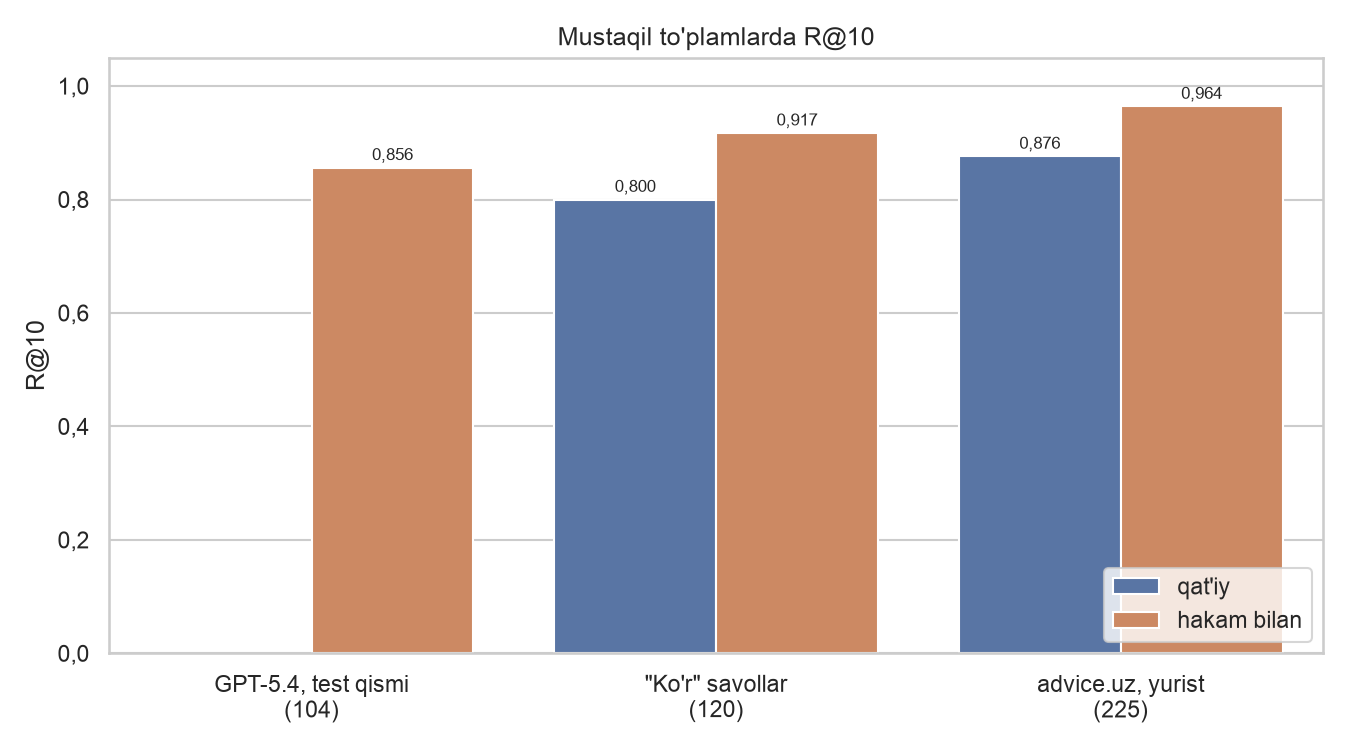
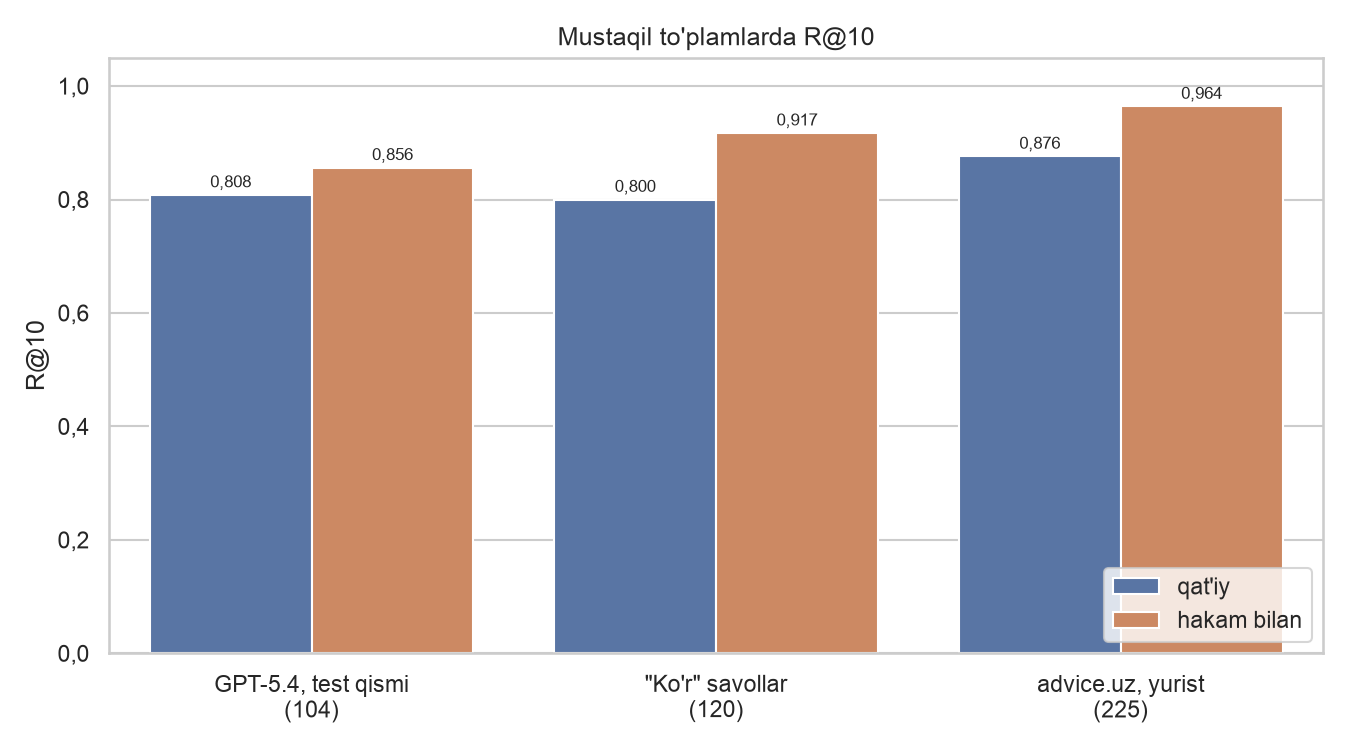
Docs: strict R@10 for the test half, explain the judge, move lex.uz out of the methods chart
The held-out GPT-5.4 test half now has a strict number (0.808, source article
only) next to the judged one (0.856). Charts and README say which numbers are
judged and explain what the judge is, with a real example. The lex.uz text
filter is not a question search, so it gets its own short section instead of
bars next to Nizom.

Changed region(s): [[0.0933, 0.2147, 0.2489, 0.8893]]

diff --git a/scripts/plot_benchmarks.py b/scripts/plot_benchmarks.py
@@ -46,36 +46,27 @@ SETS = {
     "uz": ["GPT-5.4, test qismi\n(104)", '"Ko\'r" savollar\n(120)', "advice.uz, yurist\n(225)"],
     "en": ["GPT-5.4, test half\n(104)", '"Blind" questions\n(120)', "advice.uz, lawyers\n(225)"],
 }
-SET_STRICT = [None, 0.800, 0.876]
+SET_STRICT = [0.808, 0.800, 0.876]
 SET_JUDGE = [0.856, 0.917, 0.964]
 
-# lex.uz search (6m, eval/results/2026-11-24-lexuz-search.jsonl).
-LEXUZ_QUESTION = 0.000
-LEXUZ_KW3 = 0.159
-
 # Search modes on the same 208 questions, full corpus, R@10: eval/results/2026-11-12-*-q1.json
-# (stock model) and 2026-11-19-*-rr1-top30.json (production), lex.uz above.
-# lex.uz search returns acts, not articles: its value is "the right act in the top 10".
+# (stock model) and 2026-11-19-*-rr1-top30.json (production).
 MODES = {
     "uz": [
-        "lex.uz filtri: savolning o'zi",
-        "lex.uz filtri: 3 ta kalit so'z",
         "Faqat vektor, asl e5-small",
         "Faqat FTS (kalit so'zlar)",
         "Faqat vektor, fine-tune qilingan e5-small",
         "Nizom: gibrid + reranker",
     ],
     "en": [
-        "lex.uz text filter: the question as is",
-        "lex.uz text filter: 3 keywords",
         "Vector only, stock e5-small",
         "FTS only (keywords)",
         "Vector only, fine-tuned e5-small",
         "Nizom: hybrid + reranker",
     ],
 }
-MODE_VALUES = [LEXUZ_QUESTION, LEXUZ_KW3, 0.370, 0.630, 0.707, 0.875]
-MODE_COLORS = ["#8c8c8c", "#8c8c8c", "#4c72b0", "#4c72b0", "#4c72b0", "#55a868"]
+MODE_VALUES = [0.370, 0.630, 0.707, 0.875]
+MODE_COLORS = ["#4c72b0", "#4c72b0", "#4c72b0", "#55a868"]
 
 # Embedding fine-tune on the 72k-chunk candidate pool, hybrid R@10 without a reranker (6h).
 PAIRS = [(0, 0.688), (753, 0.774), (1506, 0.779), (1849, 0.793)]
@@ -92,30 +83,28 @@ EPOCHS = [
 
 TEXT = {
     "uz": {
-        "t1": "Fine-tune'dan oldin va keyin (208 ta aniq savol, butun korpus)",
+        "t1": "Fine-tune'dan oldin va keyin (208 ta aniq savol, butun korpus, hakam bilan)",
         "t2": "Mustaqil to'plamlarda R@10",
         "strict": "qat'iy",
         "judge": "hakam bilan",
-        "t3": "Qidiruv usullari: R@10 (208 ta aniq savol, butun korpus)",
-        "note": "lex.uz uchun: to'g'ri hujjat top-10 da; boshqalar uchun: to'g'ri modda top-10 da",
+        "t3": "Qidiruv usullari: R@10 (208 ta aniq savol, butun korpus, hakam bilan)",
         "t4a": "Juftliklar soni (2 epoch)",
         "t4b": "Epoch soni (1 849 juftlik, har nuqta bitta seed)",
         "pairs": "o'qitish juftliklari",
         "epochs": "epoch",
-        "pool": "R@10, nomzodlar pool'ida, reranker'siz",
+        "pool": "R@10, nomzodlar pool'ida, reranker'siz\nhakam bilan",
     },
     "en": {
-        "t1": "Before and after fine-tuning (208 unambiguous questions, full corpus)",
+        "t1": "Before and after fine-tuning (208 unambiguous questions, full corpus, with judge)",
         "t2": "R@10 on independent sets",
         "strict": "strict",
         "judge": "with judge",
-        "t3": "Search methods: R@10 (208 unambiguous questions, full corpus)",
-        "note": "lex.uz: right act in the top 10; others: right article in the top 10",
+        "t3": "Search methods: R@10 (208 unambiguous questions, full corpus, with judge)",
         "t4a": "Number of pairs (2 epochs)",
         "t4b": "Number of epochs (1,849 pairs, one point per seed)",
         "pairs": "training pairs",
         "epochs": "epochs",
-        "pool": "R@10 on the candidate pool, no reranker",
+        "pool": "R@10 on the candidate pool, no reranker\nwith judge",
     },
 }
 
@@ -181,14 +170,13 @@ def chart_independent(lang: str) -> None:
 
 
 def chart_modes(lang: str) -> None:
-    fig, ax = plt.subplots(figsize=(9, 4.5))
+    fig, ax = plt.subplots(figsize=(9, 3.6))
     bars = ax.barh(MODES[lang], MODE_VALUES, color=MODE_COLORS)
     ax.bar_label(bars, labels=[fmt(v, lang) for v in MODE_VALUES], fontsize=9, padding=3)
     ax.invert_yaxis()
     ax.set_xlim(0, 1)
     ax.set_title(TEXT[lang]["t3"])
     comma_ticks(ax.xaxis, lang)
-    ax.set_xlabel(TEXT[lang]["note"], fontsize=9, color="#555555")
     save(fig, f"methods-{lang}.png")
 
 

diff --git a/README.md b/README.md
@@ -52,6 +52,24 @@ Metrika: **Recall@10**, ya'ni to'g'ri modda birinchi 10 ta natija ichida bo'lgan
 R@1 — to'g'ri modda birinchi o'rinda. O'lchovlar butun korpusda, xizmatdagi kod bilan, AI qayta
 yozgan savollar (`alt_queries`) bilan o'tkazildi. Batafsil: [docs/stage2-experiments.md](docs/stage2-experiments.md).
 
+**Qat'iy va hakam bilan.** Har bir savol bitta moddadan yozilgan va o'sha modda to'g'ri javob
+deb belgilangan. Lekin ko'p savolga boshqa qonundagi modda ham javob beradi. Masalan, "Yaqinim
+qamoqda bo'lsa, u bilan necha marta va qancha vaqtga ko'risha olaman?" savoli Ma'muriy qamoqni
+o'tash tartibi to'g'risidagi Qonunning 16-moddasidan yozilgan, lekin Jinoyat-ijroiya kodeksining
+76-moddasi ("Mahkumlarning uchrashuvlari") ham bunga javob beradi. Qidiruv shu moddani topsa,
+faqat oldindan belgilangan modda hisoblanadigan **qat'iy** hisobda bu xato sanaladi.
+
+**Hakam** — qidiruv topgan, lekin belgilanmagan moddalarni o'qib, "bu modda savolga javob
+beradimi?" deb tekshiradigan LLM. U "ha" desa, moddadan javob beradigan jumlani so'zma-so'z
+ko'chirib ko'rsatishi shart, iqtibos skript bilan matndan qidiriladi, topilmasa javob o'chiriladi.
+Bu qoida kerak bo'ldi: iqtibossiz LLM hakam qabul qilgan javoblarning faqat 30 %i haqiqiy edi.
+Hakam tasdiqlagan moddalar ham to'g'ri deb sanalsa, bu **hakam bilan** hisob.
+
+Qat'iy raqam pastki chegara (to'g'ri topilgan moddalar ham xato sanaladi), hakam bilan raqam
+yuqori chegara (hakam faqat bizning qidiruv topganini ko'rgan). Bu bo'limdagi grafik va
+jadvallar (mustaqil tekshiruvdan tashqari) hakam bilan hisoblangan, ular bir-biri bilan to'g'ri
+solishtiriladi. Qat'iy hisobda asosiy natija R@10 0,875 emas, **0,822**.
+
 ### Fine-tune'dan oldin va keyin
 
 To'plam: GPT-5.4 butun korpusdan yozgan 208 ta aniq savol (`eval/questions_llm_full.yaml`).
@@ -88,7 +106,7 @@ Kuzatuvlar:
 - Seed shovqini katta: bir xil sozlamada R@10 0,808–0,841. Har bir qaror bir nechta run bilan tekshirildi.
 - int8 kvantlash sifatni pasaytirmadi (pool'da 0,837 va 0,837), shuning uchun serverga int8 qo'yildi.
 
-### Boshqa qidiruv usullari bilan solishtirish
+### Qidiruv usullari
 
 Bir xil 208 savol, butun korpus:
 
@@ -96,34 +114,29 @@ Bir xil 208 savol, butun korpus:
 
 | Usul | R@1 | R@10 |
 |---|---:|---:|
-| lex.uz filtri: savolning o'zi | 0,000 | 0,000 |
-| lex.uz filtri: AI yozgan rasmiy ibora | 0,005 | 0,019 |
-| lex.uz filtri: iboraning birinchi 2 so'zi | 0,034 | 0,120 |
-| lex.uz filtri: iboraning birinchi 3 so'zi | 0,038 | 0,159 |
 | Faqat vektor, asl e5-small | 0,101 | 0,370 |
 | Faqat FTS (kalit so'zlar, o'zbekcha stemming va lemma bilan) | 0,264 | 0,630 |
 | Faqat vektor, fine-tune qilingan e5-small | 0,274 | 0,707 |
 | **Nizom: gibrid + reranker** | **0,538** | **0,875** |
 
-- "lex.uz filtri" — lex.uz'dagi hujjatlar ro'yxatining
-  ["Milliy qonunchilik" sahifasidagi](https://lex.uz/uz/search/nat?lang=4) "Matndagi so'z yoki
-  jumla" maydoni ("Aniq mos kelishi" belgilanmagan, faqat amaldagi hujjatlar). Saytda alohida
-  umumiy qidiruv oynasi yo'q, matn bo'yicha qidirish shu filtr orqali.
-- Bu filtr so'rovdagi hamma so'z bor hujjatlarni topadi va ularni moslik bo'yicha emas,
-  sana bo'yicha (eng yangisi birinchi) tartiblaydi. U modda emas, hujjat qaytaradi, shuning uchun
-  uning uchun yengilroq mezon olindi: to'g'ri hujjat birinchi 10 natija ichida bo'lsa yetarli.
-  Nizom uchun esa to'g'ri modda top-10 da bo'lishi kerak. So'rovlar 100 belgigacha qisqartirildi
-  (lex.uz cheklovi), apostroflar lex.uz yozuviga (oʻ, gʻ, ʼ) keltirildi.
-- Savol matni bilan lex.uz 208 savolning birortasida ham natija qaytarmadi ("hujjat topilmadi"),
-  rasmiy ibora bilan 96 % hollarda shunday. 2–3 ta kalit so'z bilan natija deyarli doim bor, lekin
-  moslik bo'yicha saralanmagani uchun kerakli hujjat birinchi 10 tasiga kamdan-kam tushadi. Bu
-  so'zlar bo'yicha filtr: hujjat nomi yoki raqami ma'lum bo'lganda qulay, lekin oddiy
-  savolni tushunib, javobni topib berish uchun mo'ljallanmagan. Kalit so'zlar oddiy qoida bilan
-  olindi: ularni qo'lda yaxshiroq tanlagan odam yuqoriroq natija olishi mumkin.
-- Skript: [scripts/lexuz_search_eval.py](scripts/lexuz_search_eval.py), natija:
-  `eval/results/2026-11-24-lexuz-search.jsonl`.
-- Kalit so'z qidiruvi ham, vektor qidiruvi ham alohida 0,63–0,71 da qoladi. Ikkalasini birlashtirib,
-  reranker bilan qayta saralaganda 0,875 ga chiqadi.
+Kalit so'z qidiruvi ham, vektor qidiruvi ham alohida 0,63–0,71 da qoladi. Ikkalasini birlashtirib,
+reranker bilan qayta saralaganda 0,875 ga chiqadi.
+
+### lex.uz'da qidirish bilan farqi
+
+lex.uz'da oddiy savol bilan qidiradigan oyna yo'q. Matn bo'yicha qidirish
+["Milliy qonunchilik" sahifasidagi](https://lex.uz/uz/search/nat?lang=4) "Matndagi so'z yoki
+jumla" filtri orqali bo'ladi. Bu filtr so'rovdagi hamma so'z bor hujjatlarni topadi va ularni
+sana bo'yicha (eng yangisi birinchi) tartiblaydi. U hujjat nomi yoki raqami ma'lum bo'lganda
+qulay, savolga javob topish uchun mo'ljallanmagan, shuning uchun uni Nizom bilan bir grafikka
+qo'ymadik. Bir xil 208 savolda nima bo'lishini tekshirdik:
+- savolni o'zini yozsak, lex.uz birorta savolda ham hujjat topmadi;
+- savoldan olingan 3 ta kalit so'z bilan kerakli hujjat birinchi 10 natija ichida 16 % savolda
+  chiqdi (Nizom'da kerakli **modda** top-10 da 88 % savolda).
+
+Kalit so'zlar oddiy qoida bilan olindi, ularni qo'lda tanlagan odam yaxshiroq natija olishi
+mumkin. Skript: [scripts/lexuz_search_eval.py](scripts/lexuz_search_eval.py), barcha variantlar:
+[docs/stage2-experiments.md](docs/stage2-experiments.md) (6m).
 
 ### O'zbekcha stemmer va lemma
 
@@ -154,16 +167,15 @@ nusxadan tiklangan baza:
 Sozlamalar yuqoridagi 208 savolda tanlangani uchun natija optimistik bo'lishi mumkin edi. Shuning
 uchun yana uchta to'plamda o'lchandi:
 
-![Mustaqil to'plamlarda R@10: test 0,856, ko'r savollar 0,800–0,917, advice.uz 0,876–0,964](docs/images/independent-uz.png)
+![Mustaqil to'plamlarda R@10: test 0,808–0,856, ko'r savollar 0,800–0,917, advice.uz 0,876–0,964](docs/images/independent-uz.png)
 
 | To'plam | Savol | R@1 | R@10, qat'iy | R@10, hakam bilan |
 |---|---:|---:|---:|---:|
-| GPT-5.4 savollari, `test` qismi (sozlashda ishlatilmagan) | 104 | 0,529 | — | 0,856 |
+| GPT-5.4 savollari, `test` qismi (sozlashda ishlatilmagan) | 104 | 0,529 | 0,808 | 0,856 |
 | "Ko'r" savollar: moddani ko'rmay yozilgan, javoblar korpusdan qo'lda topilgan | 120 | 0,408 | 0,800 | 0,917 |
 | [advice.uz](https://advice.uz): odamlar bergan, yurist javob bergan savollar | 225 | 0,493 | 0,876 | 0,964 |
 
-- **Qat'iy** — faqat oldindan belgilangan javoblar hisoblanadi. **Hakam bilan** — top-10 dagi
-  boshqa to'g'ri moddalar ham hisoblanadi (LLM hakam topadi, har biri iqtibos bilan tekshirilgan).
+- **Qat'iy** va **hakam bilan** nimani anglatishi [Natijalar](#natijalar) boshida yozilgan.
   Haqiqiy qiymat shu ikki raqam orasida.
 - Uchala to'plam bir xil manzarani beradi. Haqiqiy savollarda (advice.uz) natija LLM
   savollaridagidan past emas.

diff --git a/README.en.md b/README.en.md
@@ -56,6 +56,24 @@ results. R@1 means the correct article is ranked first. All numbers are measured
 corpus, with the production code, on questions rephrased by an AI (`alt_queries`), the way a
 real client calls the tool. Full log (in Uzbek): [docs/stage2-experiments.md](docs/stage2-experiments.md).
 
+**Strict and with judge.** Each question was written from one article, and that article is
+labeled as the correct answer. But many questions are also answered by an article in another act.
+For example, "If a relative of mine is in detention, how often and for how long can I visit?" was
+written from article 16 of the Law on serving administrative arrest, yet article 76 of the
+Criminal Enforcement Code ("Visits to convicts") answers it too. If search returns that article,
+the **strict** count, which only accepts the labeled article, calls it a miss.
+
+The **judge** is an LLM that reads the articles search returned but nobody labeled, and decides
+whether each one answers the question. To say yes it must quote the answering sentence word for
+word; a script looks the quote up in the text and drops the answer if it is not there. This rule
+was needed: without quotes, only 30% of the answers an LLM judge accepted were actually correct.
+Counting judge-confirmed articles as correct too gives the **with judge** number.
+
+The strict number is a lower bound (some correct finds count as misses), the judged one an upper
+bound (the judge only saw what our search found). All charts and tables in this section, except
+the independent checks, use the judged count, so they compare fairly with each other. Counted
+strictly, the headline R@10 is **0.822** instead of 0.875.
+
 ### Before and after fine-tuning
 
 Set: 208 unambiguous questions written by GPT-5.4 from the whole corpus (`eval/questions_llm_full.yaml`).
@@ -93,7 +111,7 @@ Observations:
   across several runs.
 - int8 quantization cost nothing (0.837 vs 0.837 on the pool), so the server runs int8.
 
-### Compared with other search methods
+### Search methods
 
 Same 208 questions, full corpus:
 
@@ -101,33 +119,29 @@ Same 208 questions, full corpus:
 
 | Method | R@1 | R@10 |
 |---|---:|---:|
-| lex.uz text filter: the question as is | 0.000 | 0.000 |
-| lex.uz text filter: formal phrase written by the AI | 0.005 | 0.019 |
-| lex.uz text filter: first 2 words of the phrase | 0.034 | 0.120 |
-| lex.uz text filter: first 3 words of the phrase | 0.038 | 0.159 |
 | Vector only, stock e5-small | 0.101 | 0.370 |
 | FTS only (keywords, with Uzbek stemming and lemmas) | 0.264 | 0.630 |
 | Vector only, fine-tuned e5-small | 0.274 | 0.707 |
 | **Nizom: hybrid + reranker** | **0.538** | **0.875** |
 
-- "lex.uz text filter" is the "Matndagi so'z yoki jumla" (word or phrase in the text) field on
-  lex.uz's ["National legislation" listing](https://lex.uz/uz/search/nat?lang=4) ("exact match"
-  unchecked, acts in force only). The site has no separate general search box; searching by text
-  goes through this filter.
-- The filter finds acts that contain every word of the query and sorts them by date (newest
-  first), not by relevance. It returns acts, not articles, so it gets an easier test: the right act
-  anywhere in the first 10 results. Nizom has to put the right article in the top 10. Queries were
-  cut to 100 characters (the lex.uz limit) and apostrophes converted to the lex.uz spelling (oʻ, gʻ, ʼ).
-- With the question text lex.uz returned nothing for all 208 questions ("no documents found"); with
-  the formal phrase, for 96 % of them. With 2–3 keywords there is almost always a result, but since
-  it is not ranked by relevance, the right act rarely lands in the first 10. It is a
-  word filter: handy when you know an act's title or number, but not designed to understand a plain
-  question and find the answer. The keywords were picked by a simple rule; a person choosing them
-  carefully could do better.
-- Script: [scripts/lexuz_search_eval.py](scripts/lexuz_search_eval.py), results:
-  `eval/results/2026-11-24-lexuz-search.jsonl`.
-- Keyword search and vector search each stop at 0.63–0.71 on their own. Fused and reranked, they
-  reach 0.875.
+Keyword search and vector search each stop at 0.63–0.71 on their own. Fused and reranked, they
+reach 0.875.
+
+### How this differs from searching lex.uz
+
+lex.uz has no box for asking a plain question. Searching by text goes through the "Matndagi so'z
+yoki jumla" (word or phrase in the text) filter on the
+["National legislation" listing](https://lex.uz/uz/search/nat?lang=4). It finds acts that contain
+every word of the query and sorts them by date, newest first. It is handy when you know an act's
+title or number but is not built to answer questions, so it is not on the chart with Nizom. On the
+same 208 questions:
+- with the question itself, lex.uz found no documents for any of them;
+- with 3 keywords taken from the question, the right act was in the first 10 results for 16% of
+  questions (Nizom puts the right **article** in its top 10 for 88%).
+
+The keywords were picked by a simple rule; a person choosing them by hand could do better.
+Script: [scripts/lexuz_search_eval.py](scripts/lexuz_search_eval.py); all variants are in
+[docs/stage2-experiments.md](docs/stage2-experiments.md) (6m, in Uzbek).
 
 ### Uzbek stemmer and lemmas
 
@@ -157,16 +171,15 @@ restored from last night's backup:
 The settings above were tuned on those 208 questions, so the number could be optimistic. It was
 re-measured on three more sets:
 
-![R@10 on independent sets: test 0.856, blind questions 0.800–0.917, advice.uz 0.876–0.964](docs/images/independent-en.png)
+![R@10 on independent sets: test 0.808–0.856, blind questions 0.800–0.917, advice.uz 0.876–0.964](docs/images/independent-en.png)
 
 | Set | Questions | R@1 | R@10, strict | R@10, with judge |
 |---|---:|---:|---:|---:|
-| GPT-5.4 questions, held-out `test` half (never used for tuning) | 104 | 0.529 | — | 0.856 |
+| GPT-5.4 questions, held-out `test` half (never used for tuning) | 104 | 0.529 | 0.808 | 0.856 |
 | "Blind" questions: written without seeing any article, answers found in the corpus by hand | 120 | 0.408 | 0.800 | 0.917 |
 | [advice.uz](https://advice.uz): questions asked by people and answered by lawyers | 225 | 0.493 | 0.876 | 0.964 |
 
-- **Strict** counts only the answers labeled in advance. **With judge** also counts other correct
-  articles in the top 10 (found by an LLM judge, each checked against the quoted text). The true
+- **Strict** and **with judge** are explained at the start of [Results](#results). The true
   value lies between the two.
 - All three sets tell the same story. On real questions (advice.uz) search does no worse than on
   LLM-written ones.

diff --git a/docs/stage2-experiments.md b/docs/stage2-experiments.md
@@ -942,6 +942,10 @@ chiqaradi. Joriy xizmat (6j) natijasi qismlar bo'yicha:
 Test ham o'tgan sozlashlarda ishlatilgan, shuning uchun 0,856 ham to'liq toza emas: toza raqam
 faqat bundan keyingi o'zgarishlar uchun.
 
+Qat'iy raqam (2026-11-24): `judged: true` javoblar olib tashlanib, faqat savol yozilgan manba
+modda qoldirildi. Xuddi shu xizmat sozlamalari bilan R@10: aniq 0,822 (171/208), dev 0,837,
+**test 0,808** (84/104). Ya'ni test uchun qat'iy 0,808, hakam bilan 0,856.
+
 **"Ko'r" savollar** (`eval/questions_blind.yaml`, 120 ta, `scripts/blind_eval.py`):
 - **Yozish.** 4 ta Claude (Opus) subagent hech narsa qidirmasdan, faqat hayotiy vaziyatlardan
   savol yozdi: har biriga boshqa sohalar (mehnat/pensiya, oila/meros/uy-joy, soliq/tadbirkorlik/
